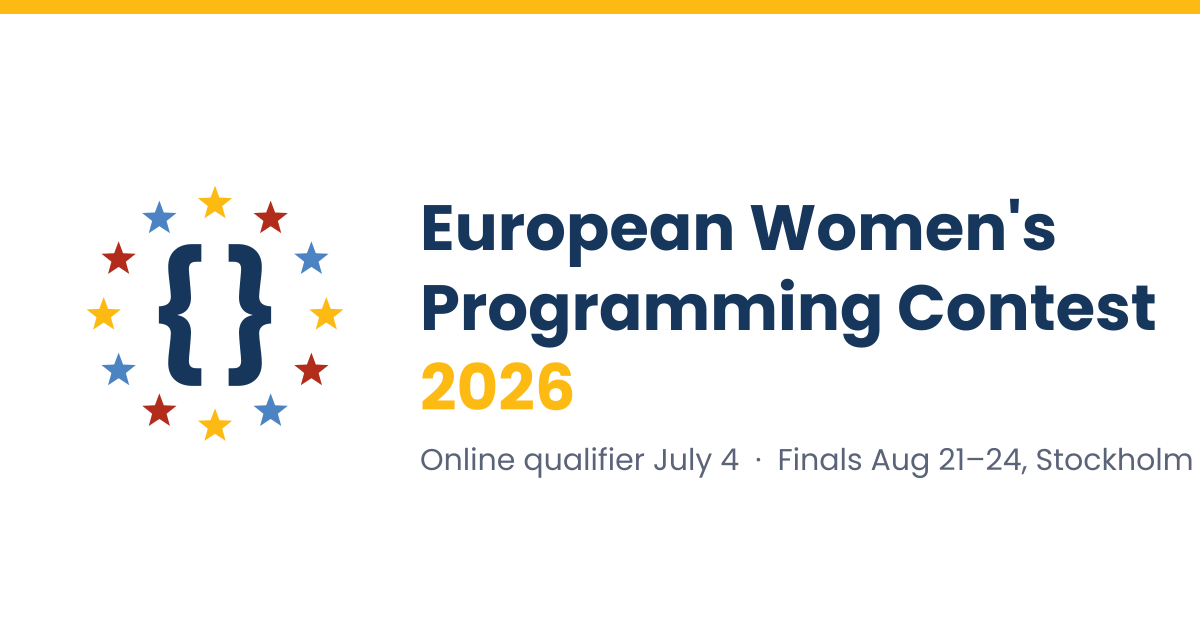
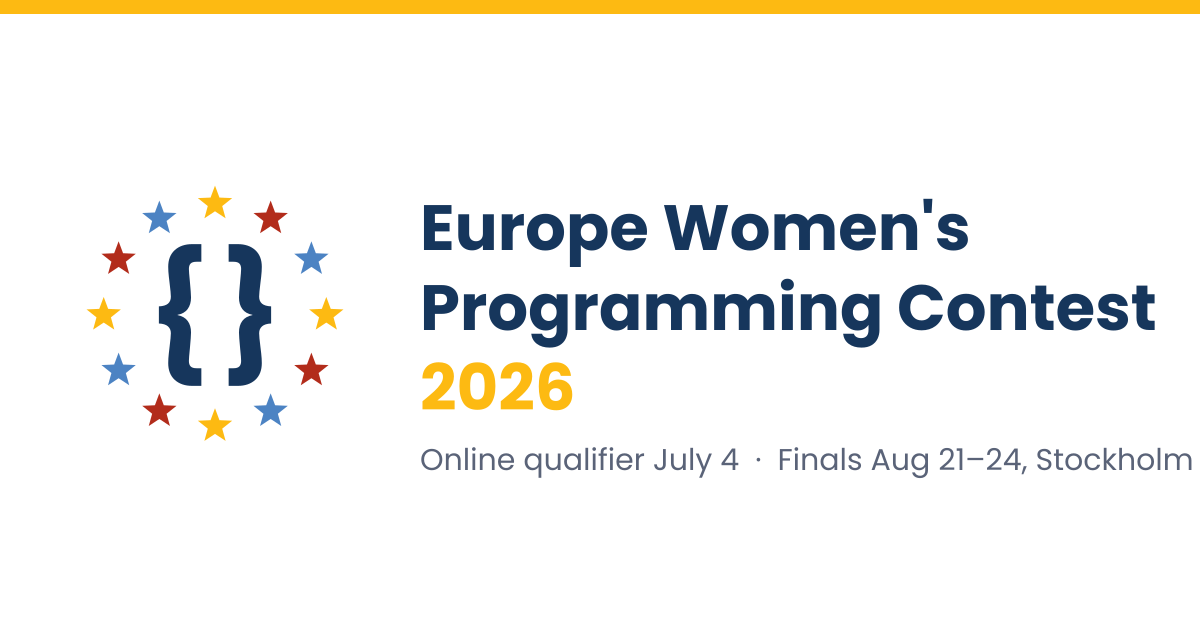
Rename to Europe Women's Programming Contest; add judges
- 'European' -> 'Europe' in the contest name throughout (title, meta,
  og, hero, about, news, footer); regenerate og social card
- Add judges roster to Organizers: Arnar Bjarni Arnarson (head judge),
  Atli Fannar Franklín, Dagur Benjamínsson, Harry Zhang, Joshua
  Anderson, Michael Zündorf, Yidi Zang, Zara Zong

Changed region(s): [[0.5242, 0.3016, 0.8942, 0.4222]]

diff --git a/index.html b/index.html
@@ -3,9 +3,9 @@
 <head>
 <meta charset="utf-8">
 <meta name="viewport" content="width=device-width, initial-scale=1">
-<title>EWPC 2026 — European Women's Programming Contest</title>
-<meta name="description" content="The European Women's Programming Contest (EWPC) 2026 — an individual programming contest in the ICPC family for women and non-binary students in Europe. Online qualifier July 4, finals August 21–24 in Stockholm, Sweden.">
-<meta property="og:title" content="EWPC 2026 — European Women's Programming Contest">
+<title>EWPC 2026 — Europe Women's Programming Contest</title>
+<meta name="description" content="The Europe Women's Programming Contest (EWPC) 2026 — an individual programming contest in the ICPC family for women and non-binary students in Europe. Online qualifier July 4, finals August 21–24 in Stockholm, Sweden.">
+<meta property="og:title" content="EWPC 2026 — Europe Women's Programming Contest">
 <meta property="og:description" content="Online qualifier July 4, 2026 · Onsite finals August 21–24, 2026, Stockholm, Sweden. Open to women and non-binary students in Europe.">
 <meta property="og:type" content="website">
 <meta property="og:url" content="https://icpc.io/ewpc-web/">
@@ -283,7 +283,7 @@
       </svg>
 
       <span class="kicker">A contest in the ICPC family</span>
-      <h1>European Women's Programming Contest <span class="year">2026</span></h1>
+      <h1>Europe Women's Programming Contest <span class="year">2026</span></h1>
       <p class="lead">
         An individual algorithmic programming contest for women and non-binary students
         across Europe — compete online in the qualifier, then meet on site for the
@@ -320,7 +320,7 @@
       <span class="section-kicker">About</span>
       <h2>What is EWPC?</h2>
       <p>
-        The <strong>European Women's Programming Contest (EWPC)</strong> is an
+        The <strong>Europe Women's Programming Contest (EWPC)</strong> is an
         <strong>individual</strong> competitive programming contest in the
         <a href="https://icpc.global/" style="color: var(--blue);">ICPC</a> family.
         Contestants solve algorithmic problems against the clock — reading a problem,
@@ -660,6 +660,11 @@
         </div>
       </div>
       <p style="margin-top: 1.4rem;">
+        <strong>Judges:</strong> Arnar Bjarni Arnarson (head judge), Atli Fannar
+        Franklín, Dagur Benjamínsson, Harry Zhang, Joshua Anderson, Michael
+        Zündorf, Yidi Zang, and Zara Zong.
+      </p>
+      <p style="margin-top: 1.4rem;">
         Organizing committee: Mikael Renström, Maddy Wang Renström, Veronika
         Soboleva, Joshua Andersson, Lotte Lakeman, Giovanna Kobus Conrado, and
         Thomas Verwoerd — with more to come.
@@ -708,7 +713,7 @@
         <div class="date">2026-06-04</div>
         <h3>Announcing EWPC 2026</h3>
         <p>
-          The first European Women's Programming Contest will be held in 2026:
+          The first Europe Women's Programming Contest will be held in 2026:
           online qualifier on July 4, and onsite finals in Stockholm, Sweden on
           August 21–24. Registration details will be announced here soon — watch
           this space!
@@ -735,7 +740,7 @@
 
 <footer>
   <div class="wrap">
-    <div>© 2026 European Women's Programming Contest · A contest in the <a href="https://icpc.global/">ICPC</a> family</div>
+    <div>© 2026 Europe Women's Programming Contest · A contest in the <a href="https://icpc.global/">ICPC</a> family</div>
     <div class="draft-note">Details on this page are preliminary and subject to change.</div>
   </div>
 </footer>